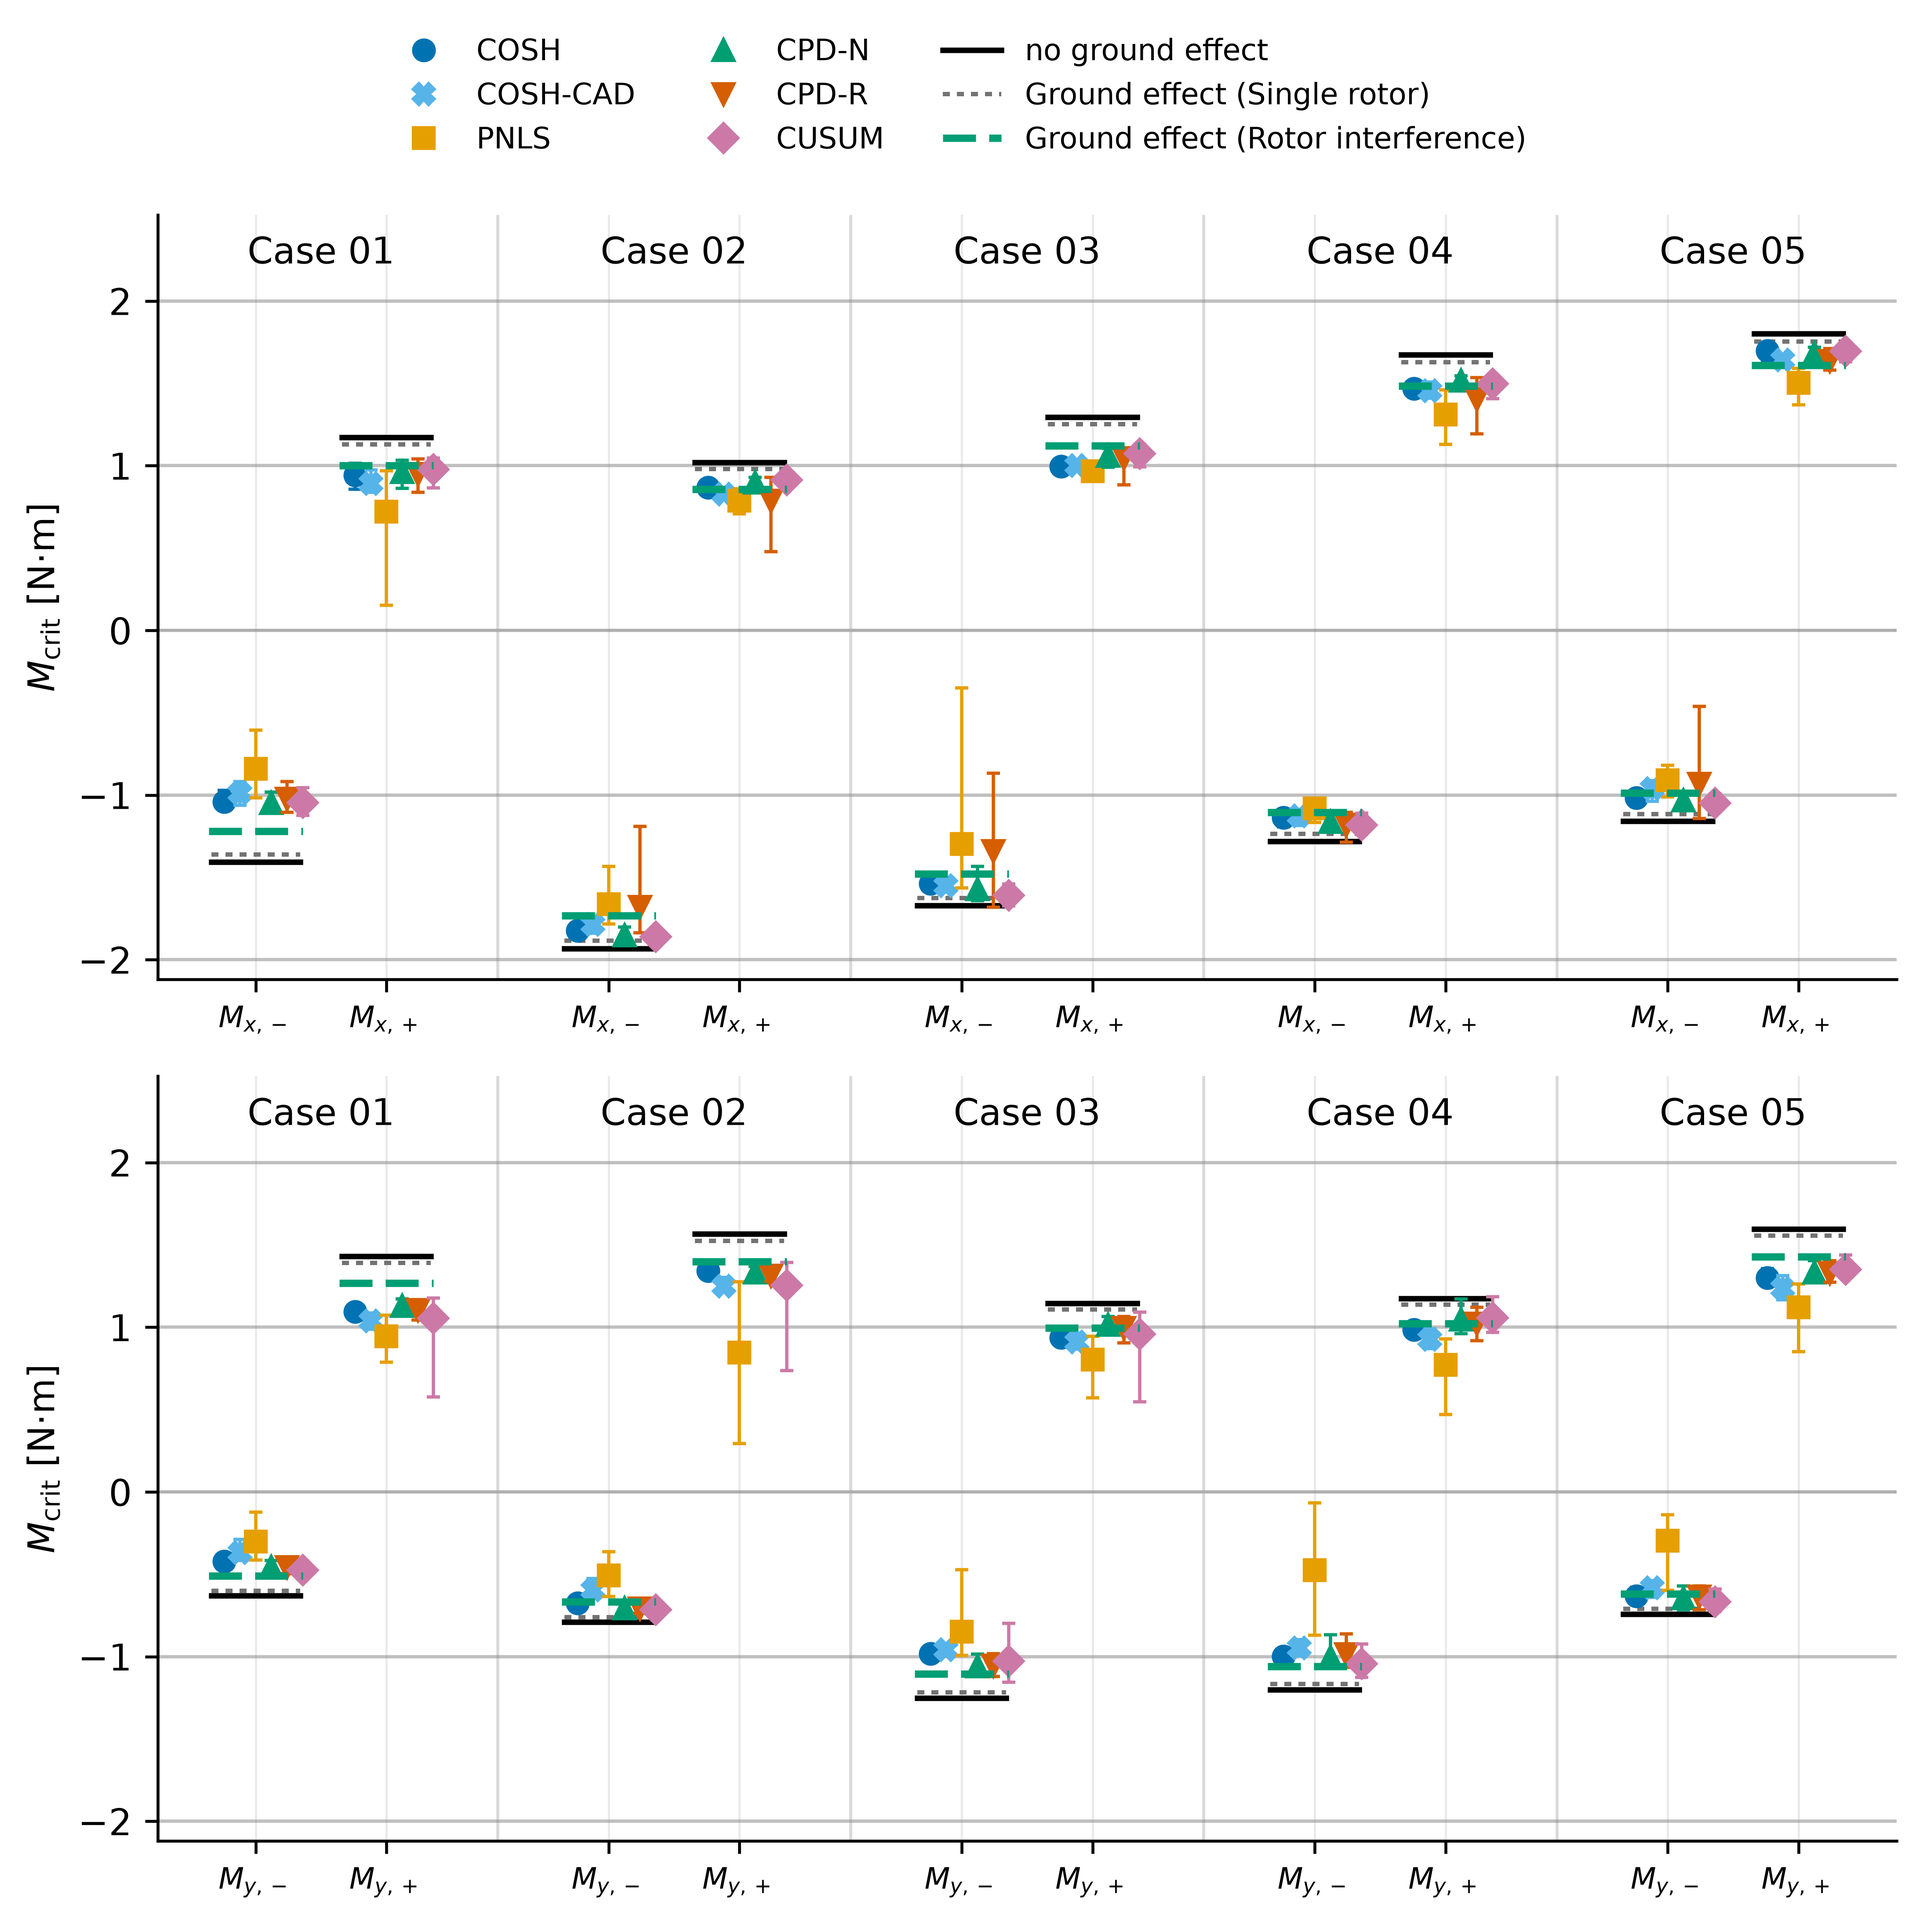
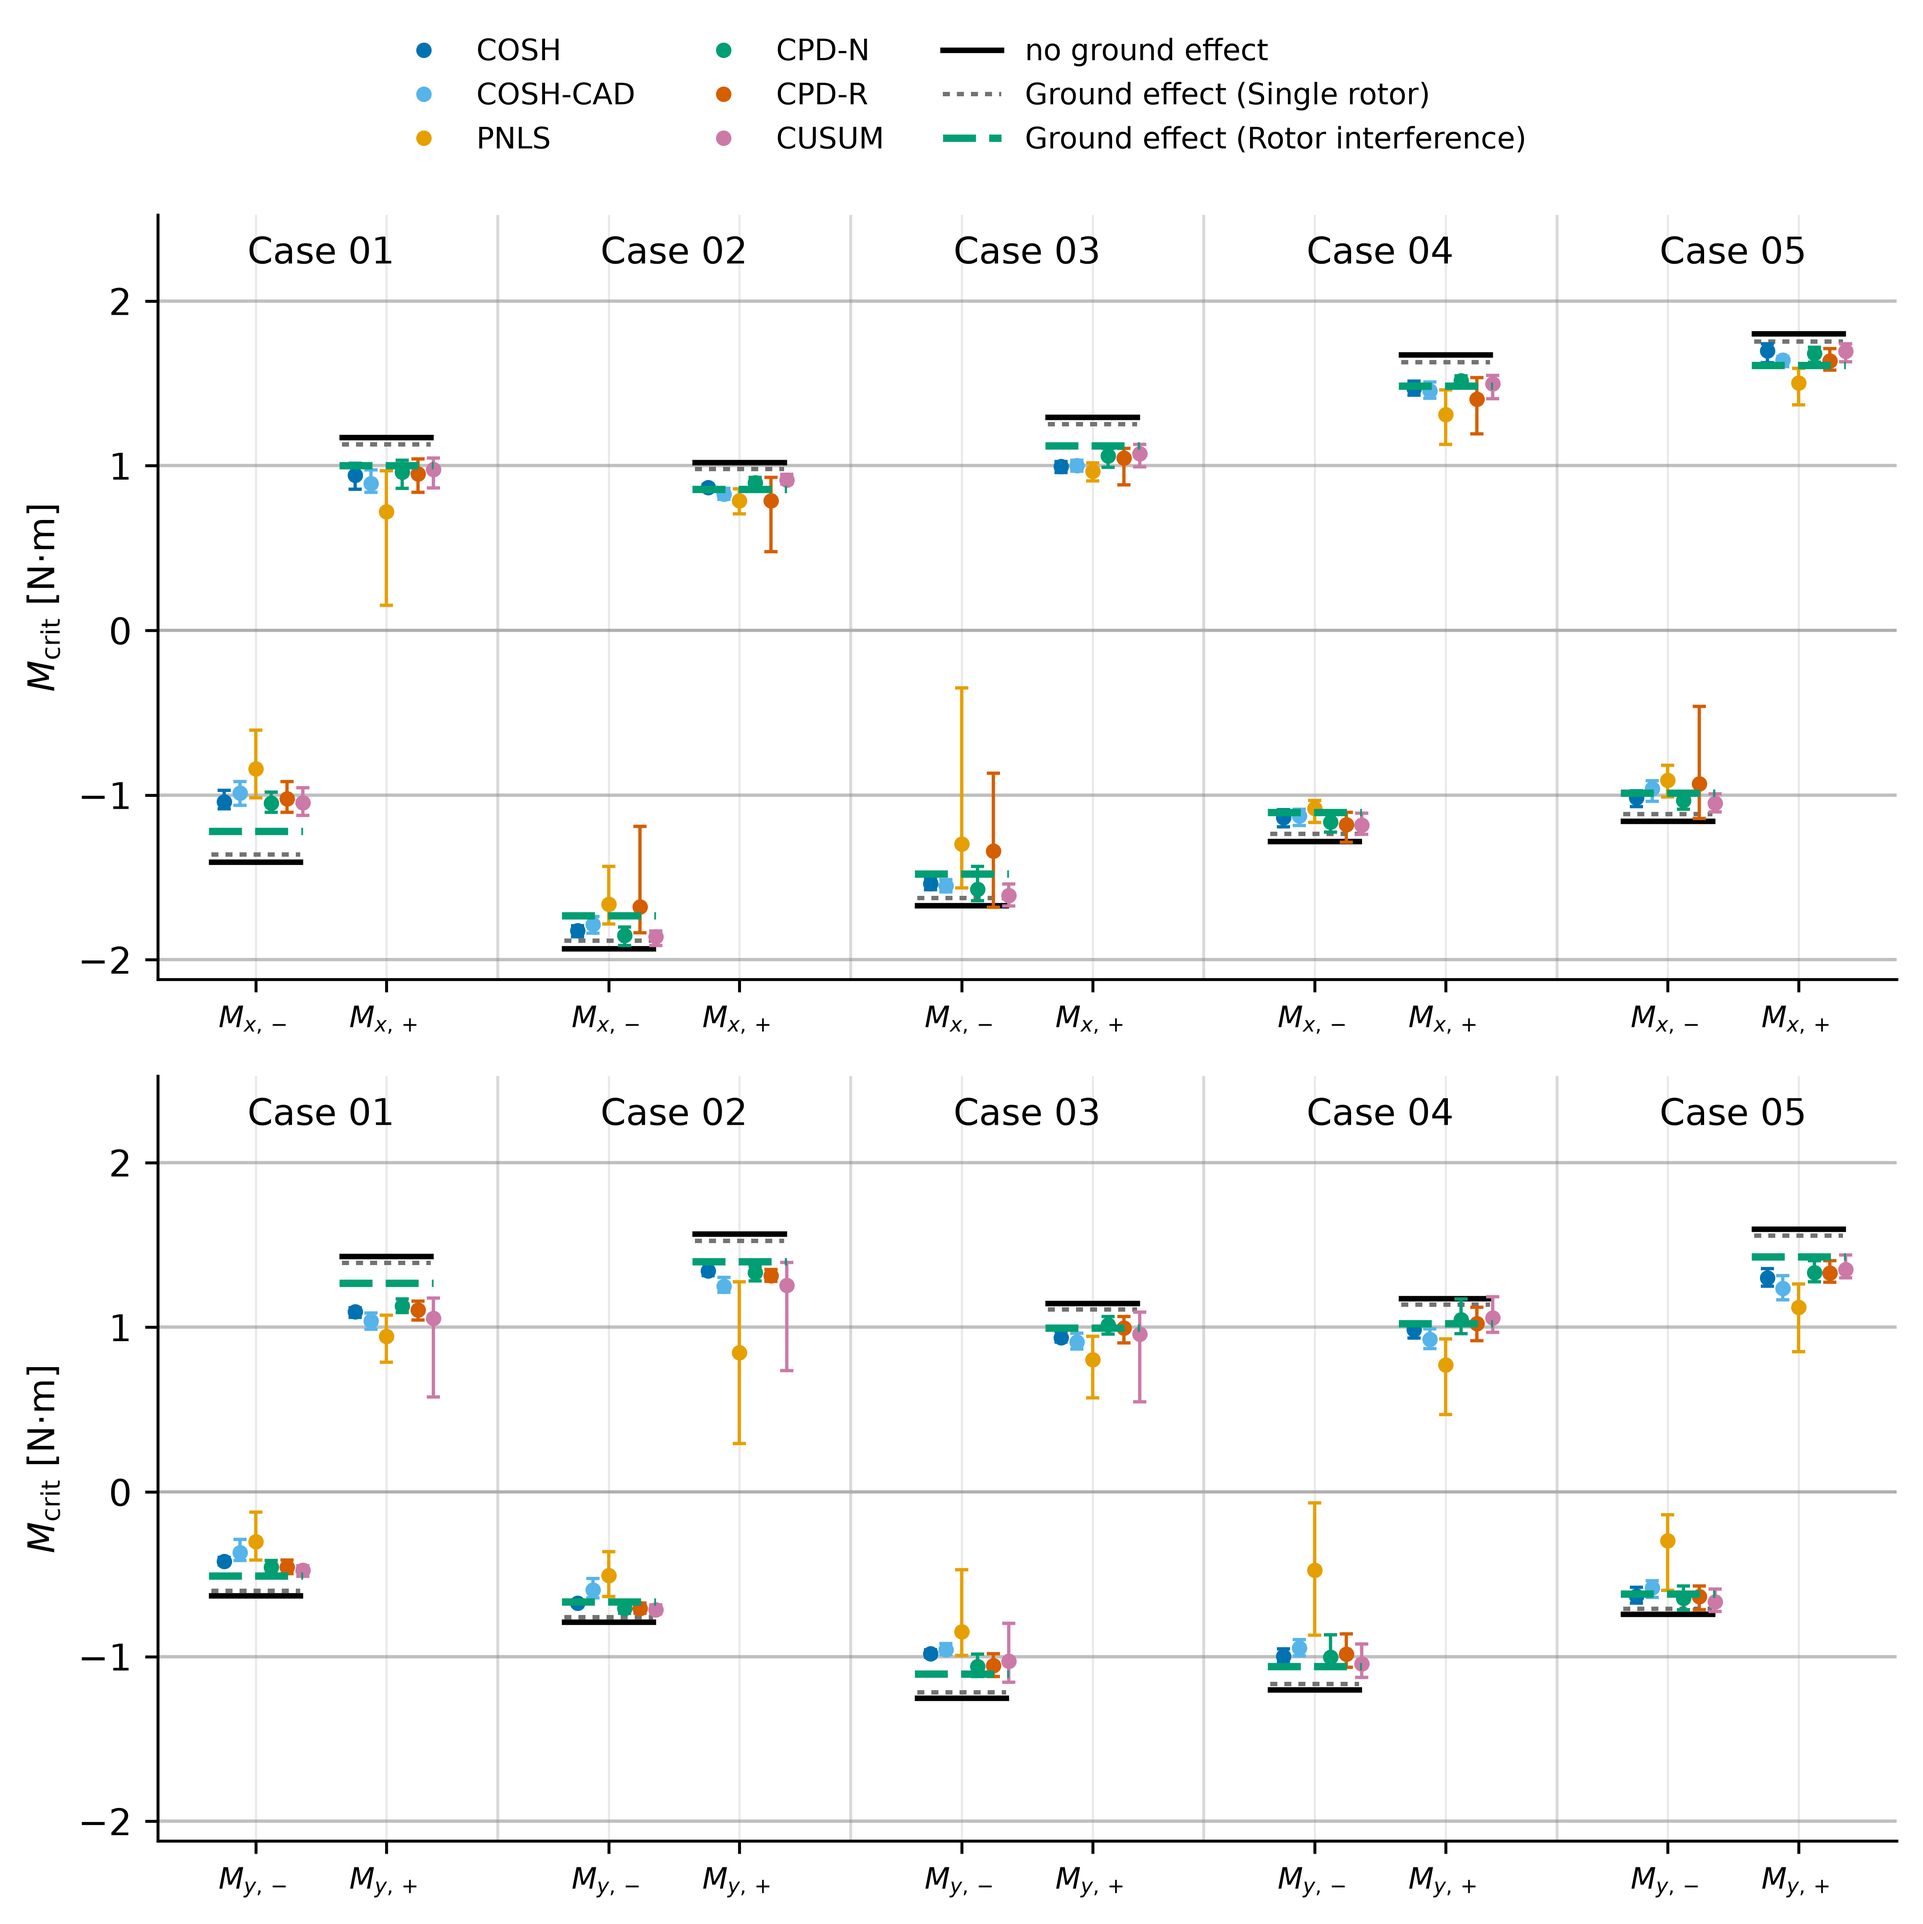
Draw all estimator markers as small dots
Distinguish the six estimators by color alone; the interval whiskers
stay legible now that the markers no longer dominate each slot.

diff --git a/analysis/mcrit_static_figure.py b/analysis/mcrit_static_figure.py
@@ -37,8 +37,8 @@ LBL = {'cosh': 'COSH', 'cosh_cad': 'COSH-CAD', 'nls': 'PNLS',
        'pelt_normal': 'CPD-N', 'pelt_rbf': 'CPD-R', 'cusum': 'CUSUM'}
 COL = {'cosh': '#0072B2', 'cosh_cad': '#56B4E9', 'nls': '#E69F00',
        'pelt_normal': '#009E73', 'pelt_rbf': '#D55E00', 'cusum': '#CC79A7'}
-MRK = {'cosh': 'o', 'cosh_cad': 'X', 'nls': 's', 'pelt_normal': '^',
-       'pelt_rbf': 'v', 'cusum': 'D'}
+# all estimators as small dots, distinguished by color alone
+MRK = {m: 'o' for m in M}
 
 pred = {(r['case'], r['axis'], r['dir']): r
         for r in csv.DictReader(open(f'{SC}/mcrit_prediction.csv'))}
@@ -127,7 +127,7 @@ for ax, axname in zip(axes, AXPANEL):
                                 elinewidth=0.9, capsize=1.8,
                                 capthick=0.9, zorder=3)
                 ax.plot(xm, val, MRK[m], color=COL[m],
-                        ms=5.5, zorder=3, label=LBL[m] if first else None)
+                        ms=3.2, zorder=3, label=LBL[m] if first else None)
             # the interference prediction is the reported model; drawn
             # after the markers and above them so they cannot hide it
             ax.plot([xc - 0.36, xc + 0.36], [pI, pI], color='#009E73',
